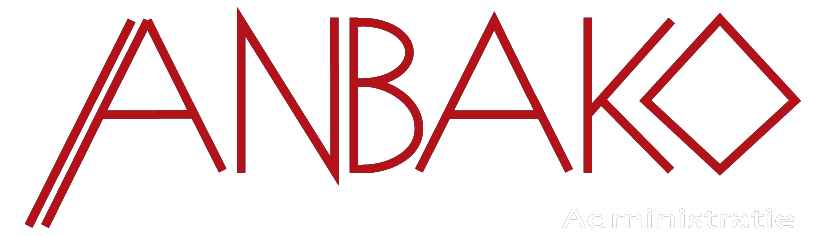
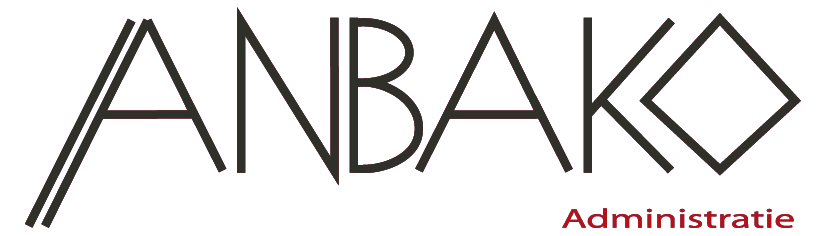
Fixed href, white version desktop

Changed region(s): [[0.0302, 0.0593, 0.9674, 0.9788], [0.6651, 0.8898, 0.9674, 0.9788]]

diff --git a/src/Components/Cards.js b/src/Components/Cards.js
@@ -2,17 +2,16 @@ import React from 'react';
 import './Cards.css';
 
 function Cards() {
-  return (
-    <div className='cards'>
-      <h1>Over mij</h1>
+  return (   
+      <div className='cards_container'>
+        <div className='cards_wrapper'>
+        <div className='cards'>
+      <h1 class="main_heading">Over mij</h1>
       <p>Lorem ipsum dolor sit amet, consectetur adipiscing elit, sed do eiusmod tempor incididunt ut labore et dolore magna aliqua. Dictumst quisque sagittis purus sit amet volutpat. Dapibus ultrices in iaculis nunc. Augue mauris augue neque gravida in fermentum. Tincidunt id aliquet risus feugiat in ante metus dictum at. Euismod nisi porta lorem mollis aliquam ut. Metus vulputate eu scelerisque felis. Elit at imperdiet dui accumsan sit amet nulla. Neque egestas congue quisque egestas. Vitae purus faucibus ornare suspendisse sed nisi. Sed vulputate mi sit amet mauris commodo quis imperdiet.
 
 Gravida rutrum quisque non tellus orci ac auctor augue. Felis donec et odio pellentesque. Lacus laoreet non curabitur gravida arcu ac tortor dignissim convallis. Pulvinar mattis nunc sed blandit libero volutpat sed cras. In massa tempor nec feugiat nisl pretium fusce id velit. Malesuada fames ac turpis egestas integer eget aliquet nibh praesent. Et egestas quis ipsum suspendisse ultrices gravida. Amet nulla facilisi morbi tempus iaculis urna. In massa tempor nec feugiat nisl pretium fusce. Tellus mauris a diam maecenas sed enim. Sed elementum tempus egestas sed sed risus pretium. Enim diam vulputate ut pharetra sit amet aliquam. Dictum at tempor commodo ullamcorper a lacus vestibulum sed arcu. Ac tortor vitae purus faucibus. Sed risus pretium quam vulputate. Pulvinar mattis nunc sed blandit. Eu sem integer vitae justo eget magna fermentum. Nunc consequat interdum varius sit. Vitae nunc sed velit dignissim sodales. Lorem sed risus ultricies tristique nulla.
 
 Arcu dictum varius duis at consectetur. Facilisi nullam vehicula ipsum a arcu cursus vitae. Turpis massa sed elementum tempus egestas sed sed. Sed id semper risus in hendrerit gravida rutrum. Quam pellentesque nec nam aliquam sem et tortor consequat. Lectus proin nibh nisl condimentum id venenatis a condimentum. Molestie at elementum eu facilisis sed. Id semper risus in hendrerit gravida. Condimentum lacinia quis vel eros donec ac odio tempor. Tempus imperdiet nulla malesuada pellentesque elit. Non pulvinar neque laoreet suspendisse interdum consectetur. Dolor sed viverra ipsum nunc aliquet bibendum enim facilisis gravida. Id eu nisl nunc mi ipsum. Sapien faucibus et molestie ac feugiat sed lectus vestibulum mattis.</p>
-      <div className='cards__container'>
-        <div className='cards__wrapper'>
-          
         </div>
       </div>
     </div>

diff --git a/src/Components/Navbar.css b/src/Components/Navbar.css
@@ -1,10 +1,10 @@
 .navbar {
-    background: linear-gradient(90deg, rgb(28, 27, 27) 0%, rgb(26, 23, 23) 100%);
+    background: #fff;
     height: 80px;
     display: flex;
-    justify-content: center;
+    justify-content: space-between;
     align-items: center;
-    font-size: 1.2rem;
+    font-size: 1.4rem;
     position: sticky;
     top: 0;
     z-index: 999;
@@ -52,7 +52,7 @@
   }
   
   .nav-links {
-    color: #fff;
+    color: rgb(14, 14, 14);
     display: flex;
     align-items: center;
     text-decoration: none;
@@ -61,12 +61,12 @@
   }
   
   .nav-links:hover {
-    border-bottom: 4px solid #fff;
+    border-bottom: 4px solid rgb(119, 27, 27);
     transition: all 0.2s ease-out;
   }
   
   .fa-bars {
-    color: #fff;
+    color: rgb(14, 14, 14);
   }
   
   .nav-links-mobile {
@@ -95,7 +95,7 @@
     }
   
     .nav-menu.active {
-      background: #242222;
+      background: rgb(124, 30, 30);
       left: 0;
       opacity: 1;
       transition: all 0.5s ease;
@@ -110,8 +110,8 @@
     }
   
     .nav-links:hover {
-      background-color: #fff;
-      color: #242424;
+      background-color: rgb(255, 255, 255);
+      color:  rgb(124, 30, 30);
       border-radius: 0;
     }
   
@@ -133,7 +133,7 @@
     }
   
     .fa-times {
-      color: #fff;
+      color: rgb(124, 30, 30);
       font-size: 2rem;
     }
   
@@ -146,7 +146,7 @@
       text-decoration: none;
       font-size: 1.5rem;
       background-color: transparent;
-      color: #fff;
+      color: rgb(14, 14, 14);
       padding: 14px 20px;
       border: 1px solid #fff;
       transition: all 0.3s ease-out;
@@ -159,7 +159,7 @@
     }
 
     .logo-Anbako{
-        width: 100px;
+        width: 120px;
         display: flex;
 
     }

diff --git a/src/Components/Button.js b/src/Components/Button.js
@@ -1,6 +1,5 @@
 import React from 'react';
 import './Button.css';
-import {Link} from 'react-router-dom';
 
 const STYLES = ['btn--primary', 'btn--outline']
 
@@ -12,13 +11,13 @@ export const Button = ({children, type, onClick, buttonStyle, buttonSize}) => {
     const checkButtonSize = SIZES.includes(buttonSize) ? buttonSize : SIZES[0]
 
     return (
-        <Link to='/Contact' className='btn-mobile'>
+        <a href="https://anbako.myemmacloud.com/auth/login?returnUrl=%2Fdashboard" className='btn-mobile' target="_blank" rel="noreferrer">
             <button
             className={`btn ${checkButtonStyle} ${checkButtonSize}`}
             onClick={onClick}
             type={type}>
                 {children}
             </button>
-        </Link>
+            </a>
     )
 }

diff --git a/src/Components/HeroSection.js b/src/Components/HeroSection.js
@@ -8,15 +8,17 @@ function HeroSection() {
         <div className='hero-container'>
           <h1>ANBAKO</h1>
           <p>Uw maat in administratie!</p>
+          <div className='color_block'>
           <div className='hero-btns'>
             <Button
               className='btns'
               buttonStyle='btn--outline'
-              buttonSize='btn--large'
-            >
+              buttonSize='btn--large'>
               Mijn diensten
             </Button>
           </div>
+          </div>
+          
         </div>
       );
     }

diff --git a/src/Components/Button.css b/src/Components/Button.css
@@ -1,5 +1,5 @@
 :root {
-    --primary: #fff;
+    --primary:  rgb(124, 30, 30);
 }
 
 .btn {
@@ -17,7 +17,7 @@
 }
 
 .btn--outline {
-    background-color: transparent;
+    background-color: rgb(124, 30, 30);
     color: #fff;
     padding: 8px 20px;
     border: 1px solid var(--primary);

diff --git a/src/Components/Footer.css b/src/Components/Footer.css
@@ -18,6 +18,10 @@
     padding: 24px;
     color: #fff;
   }
+
+  .footer-logo{
+    color:  rgb(124, 30, 30);
+  }
   
   .footer-subscription > p {
     font-family: 'Trebuchet MS', 'Lucida Sans Unicode', 'Lucida Grande',

diff --git a/src/App.css b/src/App.css
@@ -22,8 +22,9 @@
   background-position: center;
   background-size: cover;
   background-repeat: no-repeat;
-  color: #fff;
+  color: #242424;
   font-size: 100px;
+  background-color: #242424;
 }
 
 .diensten {

diff --git a/src/Components/Footer.js b/src/Components/Footer.js
@@ -1,6 +1,6 @@
 import React from 'react';
 import './Footer.css';
-import logo from './anbako-mock-white.png';
+import logo from './anbako-mock-white2.png';
 
 function Footer() {
   return (

diff --git a/src/Components/HeroSection.css b/src/Components/HeroSection.css
@@ -9,6 +9,7 @@
     box-shadow: inset 0 0 0 1000px rgba(0, 0, 0, 0.2);
     object-fit: contain;
   }
+
   
   .hero-container > h1 {
     color: #fff;

diff --git a/src/Components/Cards.css b/src/Components/Cards.css
@@ -1,0 +1,11 @@
+.cards_container{
+    background-color: #fff;
+}
+
+.cards{
+padding: 25px;
+}
+
+.main_heading{
+    color: rgb(124, 30, 30);
+}
